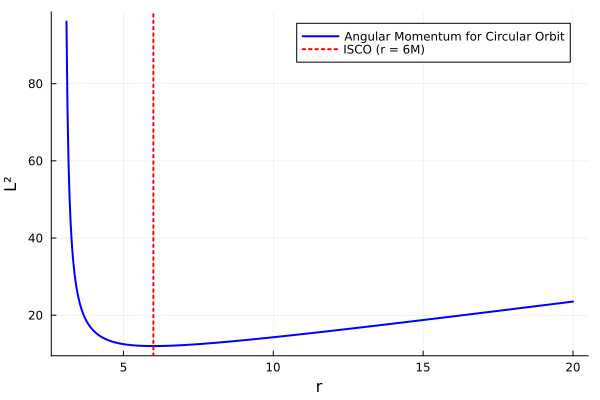
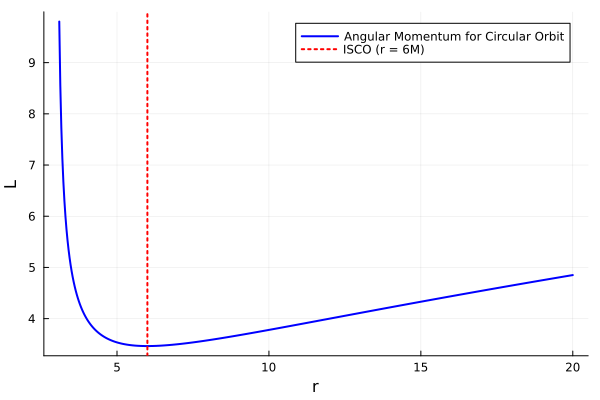
Added to index

diff --git a/docs/src/schwarzschild.md b/docs/src/schwarzschild.md
@@ -21,11 +21,6 @@ where
 
 $$r_{s} = 2M$$
   
-- ($t$) : time coordinate
-- ($r$) : radial coordinate  
-- ($\theta$) : polar angle  
-- ($\phi$) : azimuthal angle  
-
 ## Christoffel symbols
 
 
@@ -216,11 +211,13 @@ By setting the derivative $\dfrac{dV_{\rm eff}}{dr} = 0$, we can see the conditi
 
 $$Mr^2 - L^2 r + 3ML^2 = 0$$
 
-Rearranging this for $L^2$ gives us:
+Rearranging this for $L$ gives us:
 
 $$L^2 = \dfrac{Mr^2}{r-3M}$$
 
-The figure below shows this equation plotted as a function of r. The denominator $r-3M$ means $L^2$ diverges when $r=3M$. The minimum of this function occurs at the ISCO radius $(r=6M)$.
+The denominator $r-3M$ means $L^2$ diverges when $r=3M$. The minimum of this function occurs at the ISCO radius $(r=6M)$.
+
+The figure below shows the angular momentum required for a circular orbit $(L)$ as a function of radius $(r)$.
 
 
 
@@ -237,11 +234,11 @@ M = 1.0
 # Radius array (r > 3M to avoid divergence)
 r = range(3.1*M, 20M, length=500)
 
-# Angular momentum squared for circular orbits
-L2 = M * r.^2 ./ (r .- 3*M)
+# Angular momentum for circular orbits
+L = sqrt.(M * r.^2 ./ (r .- 3*M))
 
-# Plot L² vs r
-plot(r, L2, xlabel="r", ylabel="L²", label ="Angular Momentum for Circular Orbit", lw=2, color=:blue)
+# Plot L vs r
+plot(r, L, xlabel="r", ylabel="L", label ="Angular Momentum for Circular Orbit", lw=2, color=:blue)
 
 # Add vertical dotted line for ISCO at r = 6M
 vline!([6M], linestyle=:dot, lw=2, color=:red, label="ISCO (r = 6M)")
@@ -261,11 +258,11 @@ vline!([6M], linestyle=:dot, lw=2, color=:red, label="ISCO (r = 6M)")
 
 
 
-The value of the angular momentum at the ISCO can be determined by putting r=6M into the above equation for $L^2$ which gives $L_{\rm ISCO}=2\sqrt3M$. We can then plot the effective potential for different values of $L$ including $L_{\rm ISCO}$. The effective potential for a null geodesic is also shown which has a maximum at $3M$ (the photon orbit radius). The fact it is a maximum means it is an unstable orbit as expected.
+The value of the angular momentum at the ISCO can be determined by putting r=6M into the above equation for $L$ which gives $L_{\rm ISCO}=2\sqrt3M$. We can then plot the effective potential for different values of $L$ including $L_{\rm ISCO}$. The effective potential for a null geodesic is also shown which has a maximum at $3M$ (the photon orbit radius). The fact it is a maximum means it is an unstable orbit as expected.
 
-The time-like geodesic $(L=4)$ has both a maximum $(r=4M)$ and a minimum $(r=12M)$. This means a particle moving with this angular momentum would form a stable orbit at $12M$ and could potentially form an unstable orbit at $4M$.
+The time-like geodesic $(L=4)$ has both a maximum $(r=4M)$ and a minimum $(r=12M)$. This means a particle moving with this angular momentum would form a stable orbit at $12M$ and could potentially form an unstable orbit at $4M$. This unstable orbit radius at $r=4M$ also happens to be the marginally bound orbit where the particle has energy $E=1$.
 
-The ISCO potential line only has one stationary point and it is a point of inflection at $r=6M$. This shows that $L=2\sqrt3$ is the lower limit before a particle could not form a circular orbit anymore.
+The ISCO potential line only has one stationary point and it is a point of inflection at $r=6M$. This shows that $L=2\sqrt3$ is the exact point where the circular orbit changes from stable to unstable.
 
 
 ```@raw html
@@ -291,14 +288,14 @@ Vnull = (1 .- 2*M ./ r) .* ((L_val^2) ./ r.^2)
 
 # plot
 plot(r, Veff, xlabel="r", ylabel="V_eff", lw=2,
-color=:orange, label="Timelike Geodesic Potential", legend=true)
-plot!(r, V_ISCO, lw=2, color=:green, label="ISCO Potential")
+color=:orange, label="L=4", legend=true)
+plot!(r, V_ISCO, lw=2, color=:green, label="L=L_ISCO")
 plot!(r, Vnull, lw=2, color=:blue, label="Null Geodesic Potential")
 
 # mark ISCO at r = 6M
 L_ISCO = 2*sqrt(3)*M
 Veff_ISCO = (1 - 2M/6M)*(1 + L_ISCO^2 / (6M)^2)
-vline!([6M], linestyle=:dot, color=:red, label="ISCO")
+vline!([6M], linestyle=:dash, color=:red, label="ISCO")
 vline!([3M], linestyle=:dash, color=:blue, label="Photon Orbit")
 vline!([2M], linestyle=:dash, color=:black, label="Event Horizon")
 

diff --git a/docs/src/index.md b/docs/src/index.md
@@ -14,7 +14,37 @@ This is the documentation for the Catalogue of SpaceTimes (COST) Julia package. 
 ## Units
 In this catalogue we use $G=c=1$. This means that one gravitatinal radius $r_g = \dfrac{GM}{c^2} = M$.
 
-Spin is measured with the parameter $a=\dfrac{J}{Mc}=\dfrac{J}{M}$.
+The metrics that are shown are written in Boyer–Lindquist coordinates.
+- ($t$) : time coordinate
+- ($r$) : radial coordinate  
+- ($\theta$) : polar angle  
+- ($\phi$) : azimuthal angle
+
+Spin is measured with the parameter $a=\dfrac{J}{Mc}=\dfrac{J}{M}$. Where $J$ is the total angular momentum of the black hole.
+
+Energy is measured in relativistic units so that $E = \frac{total energy}{mc^2}$. $E=1$ is where the particle has energy equal to its rest mass energy.
+
+## Christoffel symbols
+Christoffel symbols are derived directly from the metric $g_{\mu\nu}$ and its derivatives $g_{\mu\nu,\alpha} = \dfrac{\partial g_{\mu\nu}}{\partial x^{\alpha}}$ using the equation:
+
+
+$$\Gamma^{\alpha}_{\mu\nu} =
+\frac{1}{2}\ g^{\alpha\beta}
+\left(
+g_{\beta\mu,\nu}
++
+g_{\beta\nu,\mu}
+-
+g_{\mu\nu,\beta}
+\right)$$
+
+The Christoffel symbols take into account how the basis vectors of the coordinate system change with respect to one another. For example, $e_r$ will change in direction as $\theta$ changes. Christoffel symbols are zero in Cartesian coordinates because $e_x$ will not change with $y$ or $z$ or vice versa.
+
+This can also be seen with the equation:
+
+
+$$\Gamma^{\alpha}_{\mu\nu} = \left( \frac{\partial e_\mu}{\partial x^\nu} \right)^\alpha$$
+
 
 ## Orbits around a black hole
 
@@ -31,7 +61,7 @@ kinetic energy. The matter eventually reaches relativistic speeds which cause
 the orbit to become unstable. The area inside the ISCO is called the plunging region as any matter inside will spiral into the event horizon. The ISCO also varies with spin and other parameters of the black hole.
 
 ### Marginally bound orbit
-
+The marginally bound orbit is the radius at which a particle will perform an unstable circular orbit with just enough energy to escape to infinity if slightly perturbed outward, corresponding to $E=1$.
 
 
 

diff --git a/docs/src/Minkowski.md b/docs/src/Minkowski.md
@@ -1,10 +1,10 @@
 # Minkowski metric
 
-The Minkowski metric describes the geometry of flat spacetime.
+The Minkowski metric is the simplest case of a metric. It describes the geometry of a flat spacetime.
 
 ## Metric definition
 
-The Minkowski metric in cartesian coordinates given by:
+The Minkowski metric in cartesian coordinates is given by:
 
 $$ds^2 = -dt^2 + dx^2 + dy^2 + dz^2$$
 
@@ -23,7 +23,7 @@ $$g_{\mu\nu} =
 \end{pmatrix}$$
 
 
-And in polar coordinates: 
+And in Boyer–Lindquist coordinates:
 
 $$ds^2 = -dt^2 + dr^2 + r^2d\theta^2 + r^2sin^2{\theta}d\phi^2$$
 

diff --git a/docs/src/kerr.md b/docs/src/kerr.md
@@ -26,11 +26,7 @@ where
 $$\Sigma = r^{2} + a^{2} \cos^{2}\theta, \quad
 \Delta = r^{2} - r_{s} r + a^{2}, \quad
 r_{s} = 2 M$$
-
-- ($t$) : time coordinate
-- ($r$) : radial coordinate  
-- ($\theta$) : polar angle  
-- ($\phi$) : azimuthal angle  
+ 
 - ($a$) : spin parameter $(0 \le a \le M)$  
 
 When $(a = 0)$, this reduces to the Schwarzschild metric.

diff --git a/docs/src/Johannsen-Psaltis.md b/docs/src/Johannsen-Psaltis.md
@@ -42,11 +42,7 @@ $$\Sigma = r^{2} + a^{2} \cos^{2}\theta, \quad
 r_{s} = 2 M, \quad
 h = \epsilon_3 \dfrac{(r_s/2)^3 r}{\Sigma^2}$$
 
-
-- ($t$) : time coordinate
-- ($r$) : radial coordinate  
-- ($\theta$) : polar angle  
-- ($\phi$) : azimuthal angle  
+ 
 - ($a$) : spin parameter $(0 \le a \le M)$
 - ($\epsilon_{3}$) : deviation parameter
 

diff --git a/docs/src/Kerr-Newman.md b/docs/src/Kerr-Newman.md
@@ -36,11 +36,7 @@ where
 $$\Sigma = r^{2} + a^{2} \cos^{2}\theta, \quad
 \Delta = r^{2} - r_{s} r + a^{2} + Q^{2}, \quad
 r_{s} = 2 M$$
-
-- ($t$) : time coordinate
-- ($r$) : radial coordinate  
-- ($\theta$) : polar angle  
-- ($\phi$) : azimuthal angle  
+ 
 - ($a$) : spin parameter $(0 \le a \le M)$  
 - ($Q$) : Electric charge
 
